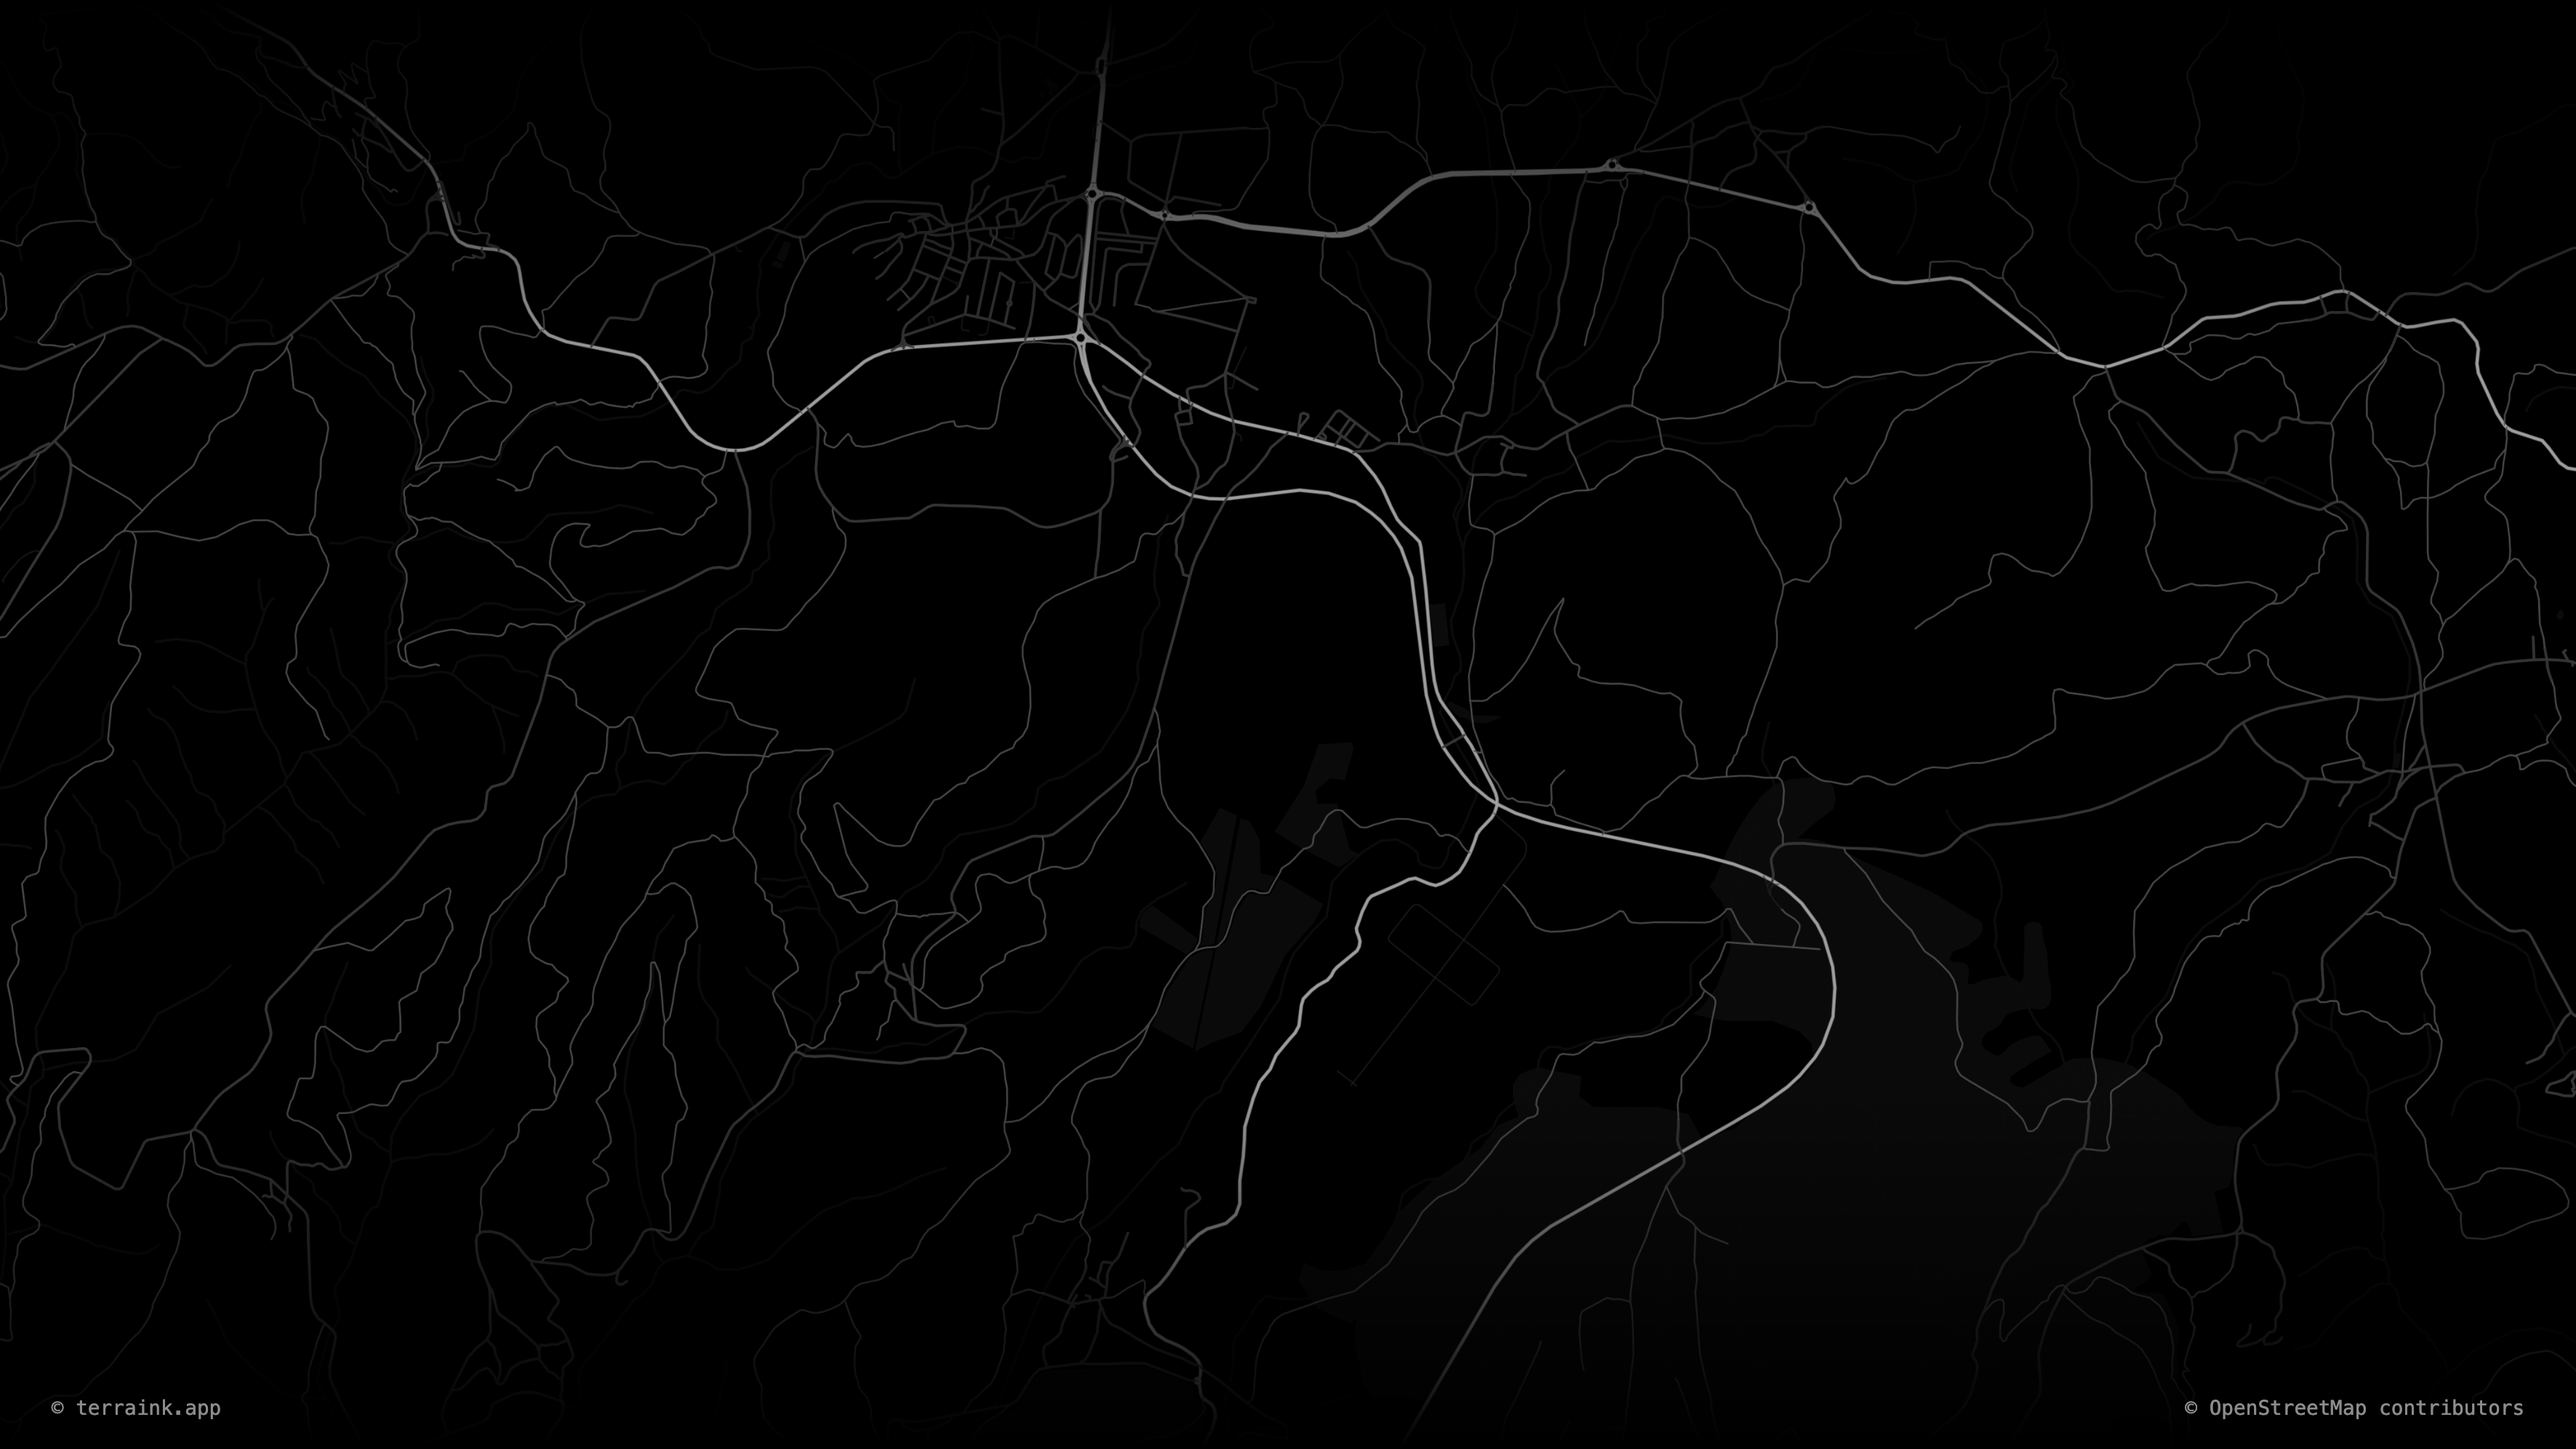
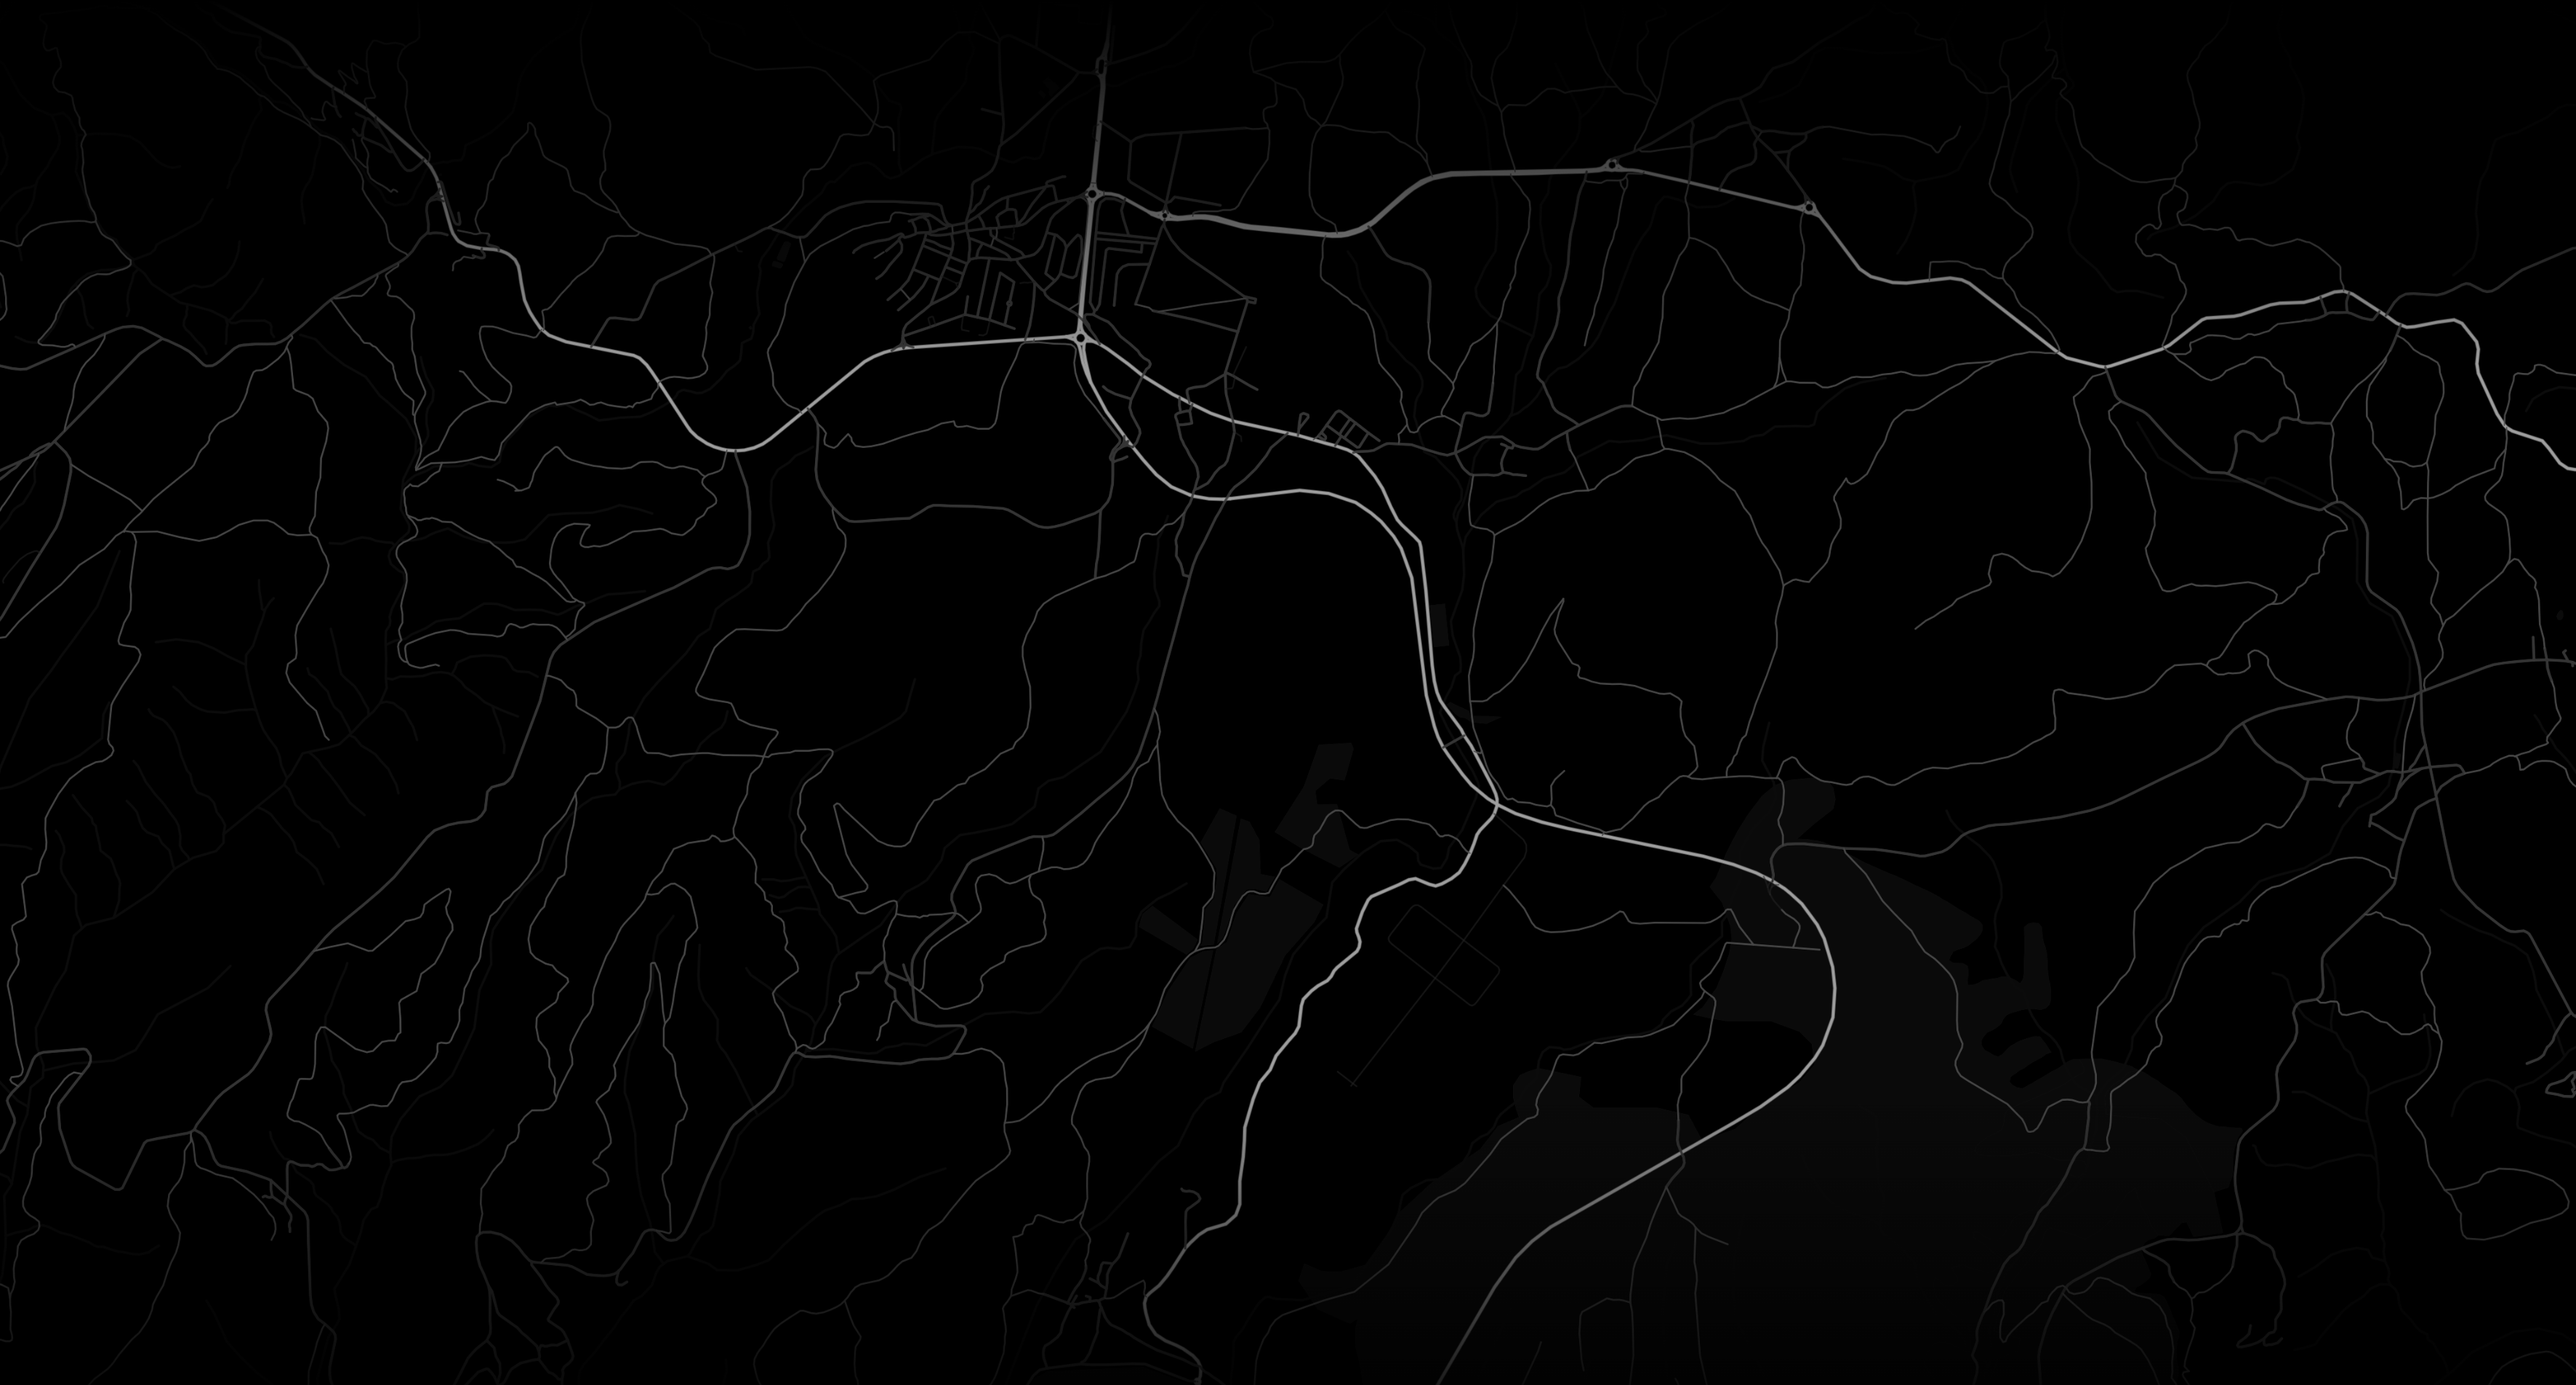
Add files via upload

diff --git a/index.html b/index.html
@@ -17,8 +17,9 @@
 :root{--bg:rgba(255,255,255,0.92);--bg2:rgba(248,248,248,0.88);--bg3:rgba(239,239,239,0.9);--text:#111;--text2:#555;--bd:rgba(0,0,0,.1);--bd2:rgba(0,0,0,.18);--acc:#1e293b;--acc-fg:#fff;--r:12px;--rsm:8px;--red:#dc2626;--redbg:#fef2f2;--redbdr:#fecaca;--green:#15803d;--amber:#92400e;--map-bg:url('bk_ligth.png')}
 [data-theme="dark"]{--bg:rgba(20,20,22,0.92);--bg2:rgba(28,28,30,0.88);--bg3:rgba(40,40,42,0.9);--text:#f0f0f0;--text2:#888;--bd:rgba(255,255,255,.1);--bd2:rgba(255,255,255,.18);--acc:#e2e8f0;--acc-fg:#111;--map-bg:url('bk_dark.png')}
 *{box-sizing:border-box;margin:0;padding:0;-webkit-tap-highlight-color:transparent}
-body{font-family:-apple-system,BlinkMacSystemFont,'Segoe UI',sans-serif;font-size:15px;color:var(--text);background:var(--map-bg) center center/cover fixed no-repeat;background-color:#fff}
+body{font-family:-apple-system,BlinkMacSystemFont,'Segoe UI',sans-serif;font-size:15px;color:var(--text);background-color:#fff}
 [data-theme="dark"] body{background-color:#0d0d0f}
+body::before{content:'';position:fixed;inset:0;z-index:-1;background:var(--map-bg) center center/cover no-repeat;filter:blur(3px);transform:scale(1.04)}
 .theme-toggle{background:transparent;border:.5px solid var(--bd2);border-radius:20px;padding:4px 10px;cursor:pointer;font-size:13px;color:var(--text2);font-family:inherit;display:flex;align-items:center;gap:5px;min-height:30px}
 .theme-toggle:hover{background:var(--bg2)}
 /* ---- MOBILE ---- */
@@ -156,7 +157,7 @@ tr:last-child td{border-bottom:none}
 .copy-btn:active{opacity:.7}
 .log-del-btn{cursor:pointer;color:var(--text2);font-size:16px;padding:2px 6px;border-radius:4px;line-height:1}
 .log-del-btn:hover{color:var(--red);background:var(--redbg)}
-.login-page{height:100vh;width:100vw;display:flex;align-items:center;justify-content:center;padding:20px;background:var(--map-bg) center center/cover fixed no-repeat;position:fixed;inset:0;transition:background .3s}
+.login-page{height:100vh;width:100vw;display:flex;align-items:center;justify-content:center;padding:20px;position:fixed;inset:0;transition:background .3s}
 .login-box{width:100%;max-width:400px;background:var(--bg);backdrop-filter:blur(16px);-webkit-backdrop-filter:blur(16px);border-radius:20px;padding:40px 36px;box-shadow:0 8px 40px rgba(0,0,0,0.22);position:relative}
 .login-logo{font-size:32px;font-weight:800;letter-spacing:-1px;margin-bottom:6px}
 .login-sub{font-size:14px;color:var(--text2);margin-bottom:32px}
@@ -204,9 +205,9 @@ function LoginScreen({theme,toggleTheme}){
   const errMsg=c=>({'auth/user-not-found':'Email não encontrado.','auth/wrong-password':'Palavra-passe incorreta.','auth/invalid-credential':'Email ou palavra-passe incorretos.'}[c]||'Erro. Tenta novamente.');
   const submit=async()=>{if(!email||!pass){setErr('Preenche todos os campos.');return;}setBusy(true);setErr('');try{await auth.signInWithEmailAndPassword(email,pass);}catch(ex){setErr(errMsg(ex.code));}setBusy(false);};
   return e('div',{className:'login-page'},e('div',{className:'login-box'},
-    e('img',{src:'icon-512.png',alt:'Territórios',style:{width:96,height:96,borderRadius:22,marginBottom:20,display:'block',marginLeft:'auto',marginRight:'auto'}}),
+    e('img',{src:'icon-512.png',alt:'Territórios',style:{width:96,height:96,borderRadius:22,marginBottom:20,display:'block',marginLeft:'auto',marginRight:'auto',boxShadow:theme==='dark'?'0 0 0 8px rgba(255,255,255,0.08), 0 0 24px rgba(255,255,255,0.06)':'none'}}),
     e('div',{style:{position:'absolute',top:16,right:16}},
-      e('button',{className:'theme-toggle',style:{background:'rgba(255,255,255,0.7)',backdropFilter:'blur(8px)'},onClick:toggleTheme},theme==='light'?'🌙':'☀')
+      e('button',{className:'theme-toggle',style:{background:'rgba(255,255,255,0.7)',backdropFilter:'blur(8px)'},onClick:toggleTheme},theme==='light'?e('svg',{viewBox:'0 0 24 24',width:16,height:16,fill:'none',stroke:'currentColor',strokeWidth:1.8,strokeLinecap:'round',strokeLinejoin:'round'},e('path',{d:'M21 12.79A9 9 0 1 1 11.21 3 7 7 0 0 0 21 12.79z'})):e('svg',{viewBox:'0 0 24 24',width:16,height:16,fill:'none',stroke:'currentColor',strokeWidth:1.8,strokeLinecap:'round',strokeLinejoin:'round'},e('circle',{cx:12,cy:12,r:5}),e('line',{x1:12,y1:1,x2:12,y2:3}),e('line',{x1:12,y1:21,x2:12,y2:23}),e('line',{x1:4.22,y1:4.22,x2:5.64,y2:5.64}),e('line',{x1:18.36,y1:18.36,x2:19.78,y2:19.78}),e('line',{x1:1,y1:12,x2:3,y2:12}),e('line',{x1:21,y1:12,x2:23,y2:12}),e('line',{x1:4.22,y1:19.78,x2:5.64,y2:18.36}),e('line',{x1:18.36,y1:5.64,x2:19.78,y2:4.22})))
     ),
     e('div',{className:'login-sub',style:{textAlign:'center',marginBottom:24}},'Inicia sessão para continuar.'),
     err&&e('div',{className:'login-err'},err),
@@ -311,8 +312,8 @@ function App({user,theme,toggleTheme}){
   return e('div',{className:'app-shell'},
     e('nav',{className:'nav'},
       e('div',{className:'sidebar-header'},
-        e('div',{className:'sidebar-logo'},e('img',{src:'icon-192.png',alt:''}),e('span',{className:'sidebar-appname'},'Territórios')),
-        e('button',{className:'theme-toggle',onClick:toggleTheme,title:'Mudar tema'},theme==='light'?'🌙':'☀')
+        e('div',{className:'sidebar-logo'},e('img',{src:'icon-192.png',alt:'',style:{width:32,height:32,borderRadius:8,boxShadow:theme==='dark'?'0 0 0 4px rgba(255,255,255,0.07)':'none'}}),e('span',{className:'sidebar-appname'},'Territórios')),
+        e('button',{className:'theme-toggle',onClick:toggleTheme,title:'Mudar tema'},theme==='light'?e('svg',{viewBox:'0 0 24 24',width:16,height:16,fill:'none',stroke:'currentColor',strokeWidth:1.8,strokeLinecap:'round',strokeLinejoin:'round'},e('path',{d:'M21 12.79A9 9 0 1 1 11.21 3 7 7 0 0 0 21 12.79z'})):e('svg',{viewBox:'0 0 24 24',width:16,height:16,fill:'none',stroke:'currentColor',strokeWidth:1.8,strokeLinecap:'round',strokeLinejoin:'round'},e('circle',{cx:12,cy:12,r:5}),e('line',{x1:12,y1:1,x2:12,y2:3}),e('line',{x1:12,y1:21,x2:12,y2:23}),e('line',{x1:4.22,y1:4.22,x2:5.64,y2:5.64}),e('line',{x1:18.36,y1:18.36,x2:19.78,y2:19.78}),e('line',{x1:1,y1:12,x2:3,y2:12}),e('line',{x1:21,y1:12,x2:23,y2:12}),e('line',{x1:4.22,y1:19.78,x2:5.64,y2:18.36}),e('line',{x1:18.36,y1:5.64,x2:19.78,y2:4.22})))
       ),
       navs.map(n=>e('button',{key:n.k,className:'nb'+(view===n.k||view==='terr-detail'&&n.k==='territories'?' act':''),onClick:()=>navTo(n.k)},
         n.k==='assignments'&&stats.alerts.length>0&&e('span',{className:'nb-badge'},stats.alerts.length),
@@ -324,7 +325,7 @@ function App({user,theme,toggleTheme}){
       )
     ),
     e('div',{id:'root'},
-    e('div',{className:'topbar'},e('div',{className:'topbar-inner'},e('span',{className:'appname'},'Territórios'),e('div',{className:'topbar-right'},e('button',{className:'theme-toggle',onClick:toggleTheme},theme==='light'?'🌙':'☀'),e('span',{className:'sync-dot'},'☁'),e('button',{className:'logout-btn',onClick:()=>{if(confirm('Terminar sessão?'))auth.signOut();}},'Sair')))),
+    e('div',{className:'topbar'},e('div',{className:'topbar-inner'},e('span',{className:'appname'},'Territórios'),e('div',{className:'topbar-right'},e('button',{className:'theme-toggle',onClick:toggleTheme},theme==='light'?e('svg',{viewBox:'0 0 24 24',width:16,height:16,fill:'none',stroke:'currentColor',strokeWidth:1.8,strokeLinecap:'round',strokeLinejoin:'round'},e('path',{d:'M21 12.79A9 9 0 1 1 11.21 3 7 7 0 0 0 21 12.79z'})):e('svg',{viewBox:'0 0 24 24',width:16,height:16,fill:'none',stroke:'currentColor',strokeWidth:1.8,strokeLinecap:'round',strokeLinejoin:'round'},e('circle',{cx:12,cy:12,r:5}),e('line',{x1:12,y1:1,x2:12,y2:3}),e('line',{x1:12,y1:21,x2:12,y2:23}),e('line',{x1:4.22,y1:4.22,x2:5.64,y2:5.64}),e('line',{x1:18.36,y1:18.36,x2:19.78,y2:19.78}),e('line',{x1:1,y1:12,x2:3,y2:12}),e('line',{x1:21,y1:12,x2:23,y2:12}),e('line',{x1:4.22,y1:19.78,x2:5.64,y2:18.36}),e('line',{x1:18.36,y1:5.64,x2:19.78,y2:4.22}))),e('span',{className:'sync-dot'},'☁'),e('button',{className:'logout-btn',onClick:()=>{if(confirm('Terminar sessão?'))auth.signOut();}},'Sair')))),
     e('div',{className:'content'},
       view==='dashboard'&&e(Dashboard,{T,A,AL,P,AS,cfg,stats,onOpen:openT,onGoAS:()=>navTo('assignments')}),
       view==='territories'&&e(TerritoriesView,{T,A,AS,P,cfg,onOpen:openT,onAdd:()=>setModal('add-territory')}),
